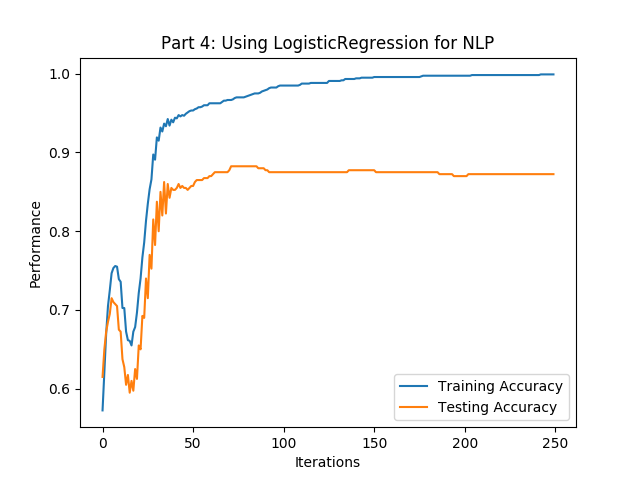
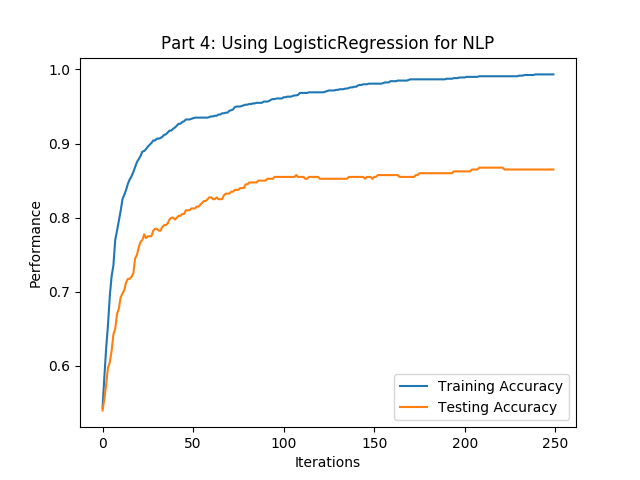
Finished up to part 6

diff --git a/compare_nb_log.py b/compare_nb_log.py
@@ -1,34 +1,13 @@
 import a3
 import matplotlib.pyplot as plt
 import numpy as np
+import tabulate
 import pdb
 
 def part6(classifier):
 	print("performing part 6")
-	# NB part
-	n = 100
-	m = 0.000005
-	pos_class = classifier.classes["positive"]
-	neg_class = classifier.classes["negative"]
-
-	pos_words = pos_class.words_in_class()
-	neg_words = neg_class.words_in_class()
-
-	pos_in_pos = np.log(pos_class.probabilities_of_words(pos_words, m))
-	pos_in_neg = np.log(neg_class.probabilities_of_words(pos_words, m))
-
-	neg_in_pos = np.log(pos_class.probabilities_of_words(neg_words, m))
-	neg_in_neg = np.log(neg_class.probabilities_of_words(neg_words, m))
-
-	pos_diff = pos_in_pos - pos_in_neg
-	neg_diff = neg_in_neg - neg_in_pos
-
-	ix_pos = np.argsort(pos_diff)[ :-n -1: -1]
-	ix_neg = np.argsort(neg_diff)[ :-n -1: -1]
-
-	theta_nb = [pos_diff[i] for i in ix_pos]
-
 	# Get thetas for logistic:
+	n = 100
 	num_iterations = 250
 	alpha = 0.00003
 
@@ -37,9 +16,28 @@ def part6(classifier):
 
 	ix = np.argsort(thetas)[ :-n -1: -1]
 
-	theta_log = [thetas[i] for i in ix]
+	theta_log = np.array([(classifier._vocabulary[i], thetas[i]) for i in ix])
+
+	# NB part
+	m = 0.00005
+	pos_class = classifier.classes["positive"]
+	neg_class = classifier.classes["negative"]
+
+	words = classifier._vocabulary
+
+	pos_prob = np.array(pos_class.probabilities_of_words(words, m))
+	neg_prob = np.array(neg_class.probabilities_of_words(words, m))
+
+	ratio = pos_prob/neg_prob
+
+	ix_nb = np.argsort(ratio)[ :-n -1: -1]
+
+	theta_nb = np.array([(words[i], ratio[i]) for i in ix_nb])
+
 	pdb.set_trace()
-	print("yo")
+	top_theta = np.append(theta_nb, theta_log, axis=1)
+	print(tabulate.tabulate(top_theta, headers=["nb_word", "nb_theta", "log_word", "log_theta"], 
+		numalign="center", tablefmt="psql"))
 
 if __name__ == '__main__':
 	classes = {}

diff --git a/a3.py b/a3.py
@@ -334,12 +334,10 @@ class Classifier(object):
 
 	def get_data_embeddings(self):
 		'''
-<<<<<<< Updated upstream
-		Uses _build_x_from_embeddings to build x, y, vectors
-=======
+
 		Uses _build_x_from_review to build x, y, vectors
 		- takes the entire training set from all classes to build the input vectors
->>>>>>> Stashed changes
+
 		x will be n x k
 		y will be n x 1
 		'''
@@ -460,6 +458,7 @@ class Classifier(object):
 		# parameters
 		k = x.shape[1]
 		m = y.shape[1]
+		beta = 0.1/(x.shape[0])
 
 		# placeholders
 		_x = tf.placeholder(tf.float32, [None, k]) # k dimensional vector
@@ -474,6 +473,8 @@ class Classifier(object):
 
 		# cost
 		cost = tf.reduce_mean(-tf.reduce_sum(_y*tf.log(pred)))
+		regularization = tf.nn.l2_loss(w)
+		cost = tf.reduce_mean(cost + beta * regularization)
 
 		# optimizer
 		optimizer = tf.train.GradientDescentOptimizer(alpha).minimize(cost)
@@ -499,7 +500,7 @@ class Classifier(object):
 				print("Train: {}".format(sess.run(accuracy, feed_dict={_x: x, _y: y})))
 				print("Test: {}".format(sess.run(accuracy, feed_dict={_x: x_t, _y: y_t})))
 
-		return train_acc, test_acc
+		return train_acc, test_acc, w.eval(sess)[:,0]
 
 if __name__ == '__main__':
 

diff --git a/naivebayes.py b/naivebayes.py
@@ -57,12 +57,20 @@ def part2(classifier):
 	plt.legend()
 	plt.savefig("part2_m_graph.png")
 
+	m = 0.00005
+	total_train, train_corr, total_test, test_corr = classifier.NaiveBayes(m)
+
+	print("Naive Bayes Classifier Performance for m = {}: ".format(m))
+	print("Training: {} of {}, {}%, Testing: {} of {}, {}%".format(train_corr, total_train, 
+				(100*train_corr/total_train), test_corr, total_test, (100*test_corr/total_test)))
+
+
 def part3(classifier, n=10):
 	'''
 	prints the words that have the highest correlation with each class
 	'''
 	print("running part 3")
-	m = 0.000005
+	m = 0.00005
 	pos_class = classifier.classes["positive"]
 	neg_class = classifier.classes["negative"]
 
